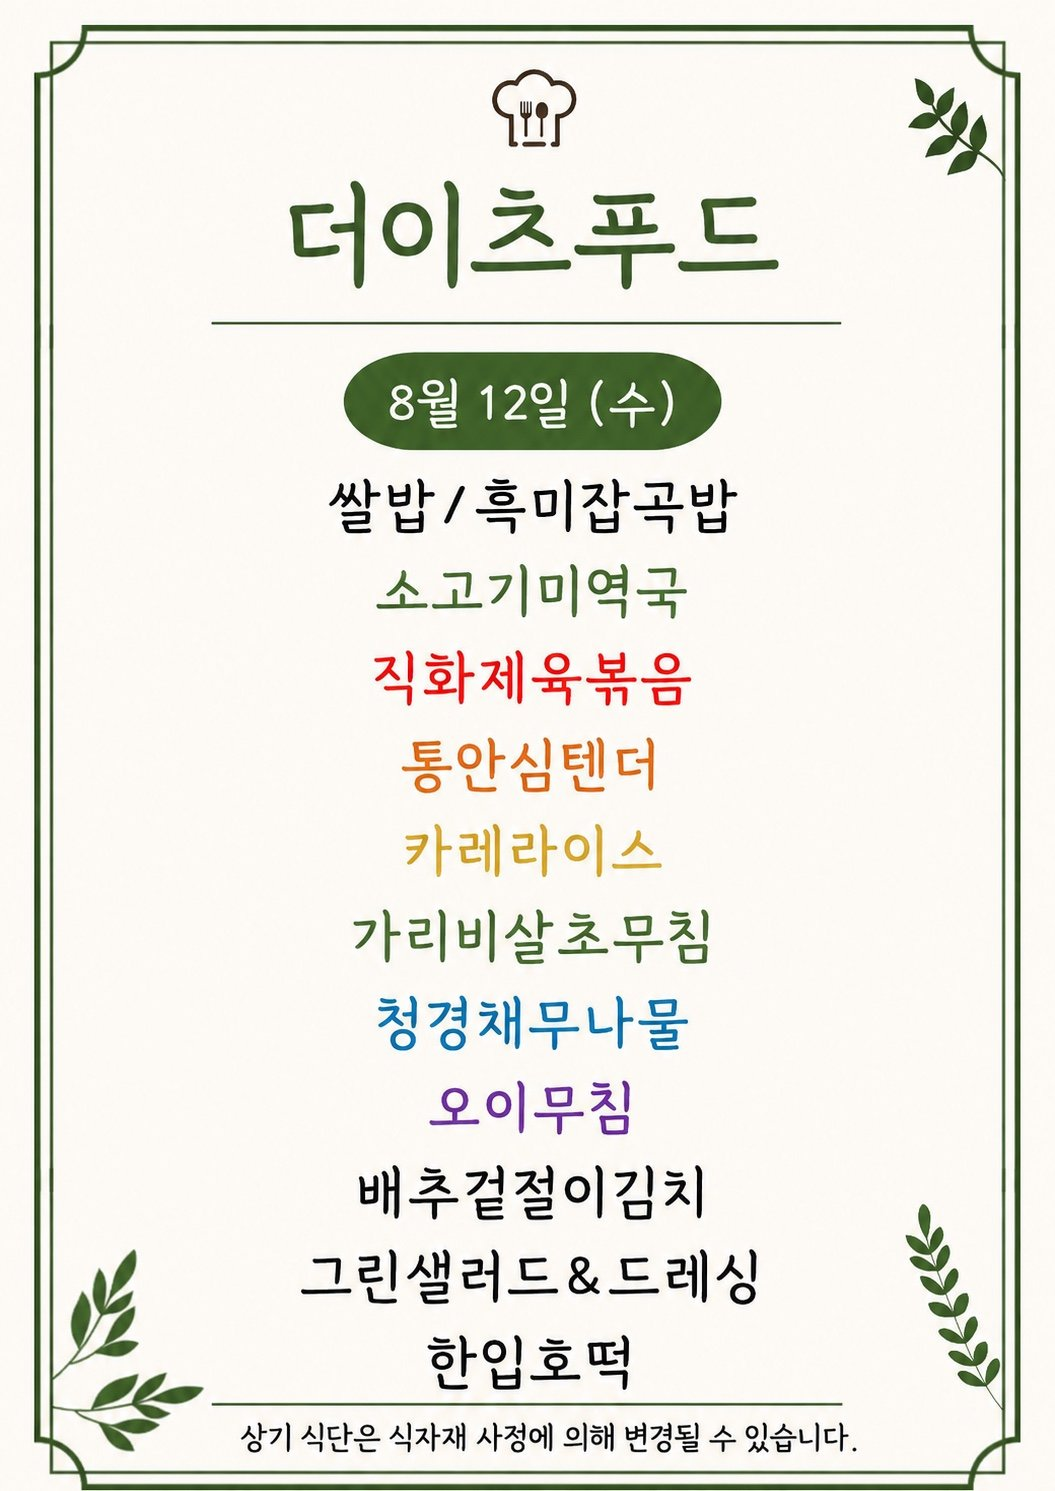
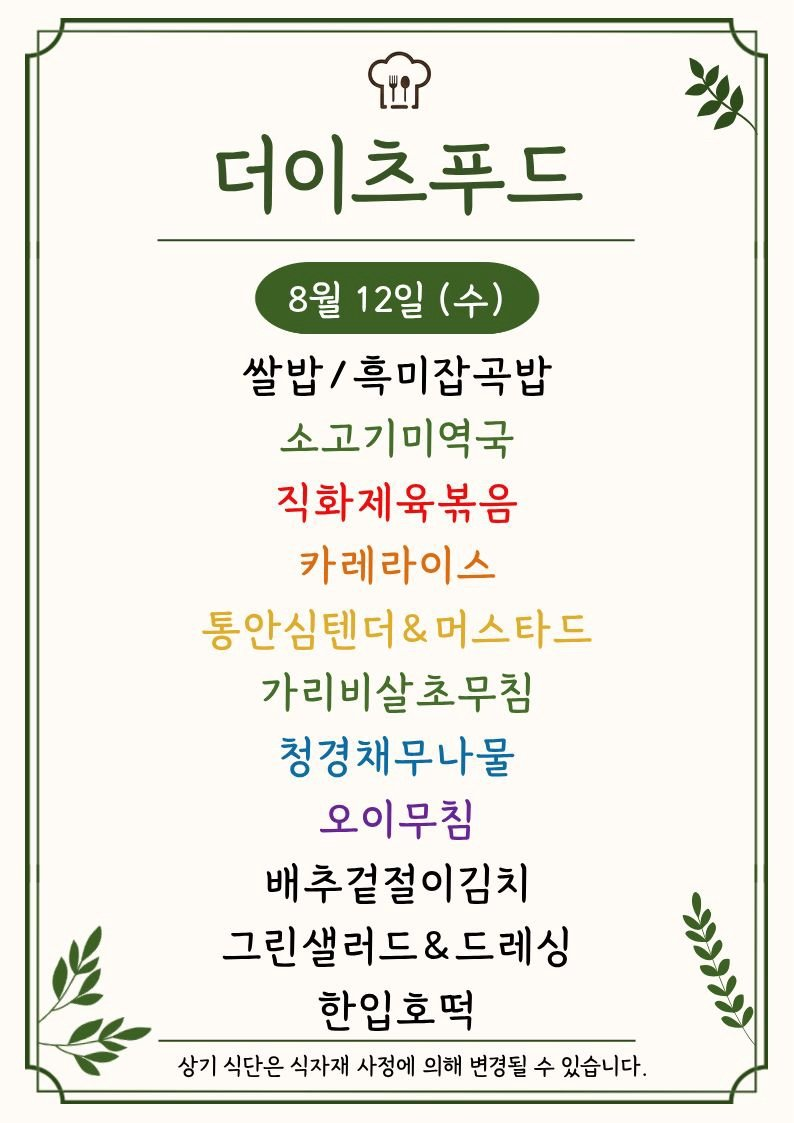
Update menu board assets

Changed region(s): [[0.0302, 0.0, 0.9673, 1.0], [0.3023, 0.2493, 0.3325, 0.2805]]

diff --git a/menu-today/index.html b/menu-today/index.html
@@ -209,7 +209,7 @@
 
     <section class="meta-bar">
       <div class="meta-card"><div class="meta-label">기준 날짜</div><div class="meta-value">2026년 8월 12일 수요일</div></div>
-      <div class="meta-card"><div class="meta-label">최종 가져온 시간</div><div class="meta-value">2026-08-12 10:18:54</div></div>
+      <div class="meta-card"><div class="meta-label">최종 가져온 시간</div><div class="meta-value">2026-08-12 10:33:38</div></div>
       <div class="meta-card"><div class="meta-label">확인 완료</div><div class="meta-value">9개 식당</div></div>
       <div class="meta-card"><div class="meta-label">준비중</div><div class="meta-value">3개 채널</div></div>
     </section>
@@ -295,7 +295,7 @@
             <div class="sub">에이스테크노타워10차</div>
           </div>
         </div>
-        <div class="menu-inline-image"><img src="./images/thefoodsketch.png" alt="더푸드스케치 식단 이미지"></div><ul><li>육개장</li><li>묵은지삼겹실찜</li><li>안심치킨텐더 / 머스타드S</li><li>두부구이</li><li>참치감자짜글이</li><li>기 미역줄기볶음</li><li>~ 고추지</li><li>가든샐러드 / 드레싱</li><li>우 -일배기겉절이 / 음료</li><li>지삼겹실찜</li></ul>
+        <div class="menu-inline-image"><img src="./images/thefoodsketch.png" alt="더푸드스케치 식단 이미지"></div><ul><li>육개장</li><li>묵은지삼겹실찜</li><li>안심치킨텐더 / 머스타드S</li><li>두부구이</li><li>참치감자짜글이</li><li>기 미역줄기볶음</li><li>~ 고추지</li><li>가든샐러드 &amp; 드레싱</li><li>우 -일배기겉절이 / 음료</li><li>지삼겹실찜</li></ul>
       </article>
 
       <article class="restaurant-card">

diff --git a/guro-menu/index.html b/guro-menu/index.html
@@ -32,7 +32,7 @@
   </header>
   <section class="meta">
     <div><small>기준 날짜</small><strong>2026년 8월 12일 수요일</strong></div>
-    <div><small>최종 갱신</small><strong>2026-08-12 10:19:09</strong></div>
+    <div><small>최종 갱신</small><strong>2026-08-12 10:33:50</strong></div>
     <div><small>등록 식당</small><strong>5개</strong></div>
   </section>
   <div class="notice">공개 카카오 채널의 메뉴 이미지를 자동 수집하고 OCR로 정리합니다. 텍스트에 오타가 있을 수 있으니 식단 이미지를 함께 확인해 주세요.</div>
@@ -76,7 +76,7 @@
         </div>
         <img class="menu-image" src="./images/the-eats-food.png" alt="더이츠푸드 식단 이미지" loading="lazy">
         
-        <ul><li>1이츠푸드</li><li>쌀밥/흑미잡곡밥</li><li>소고기미역국</li><li>직화제육볶음</li><li>통안심텐더</li><li>카레라이스</li><li>가리비살초무침</li><li>청경채무나물</li><li>오이무침</li><li>배추겉절이김치</li><li>그린샐러드&amp;드레싱</li><li>한입호떡</li></ul>
+        <ul><li>2 0. 됩</li><li>쌀밥/흑미잡곡밥</li><li>소고기미역국</li><li>직화제육볶음</li><li>카레라이스</li><li>가리비살초무침</li><li>청경채무나물</li><li>오이무침</li><li>배추겉절이김치 y</li><li>그린샐러드&amp;드레싱 Y</li><li>로 - wv</li><li>한입호떡</li></ul>
       </article>
 
       <article class="restaurant-card">
